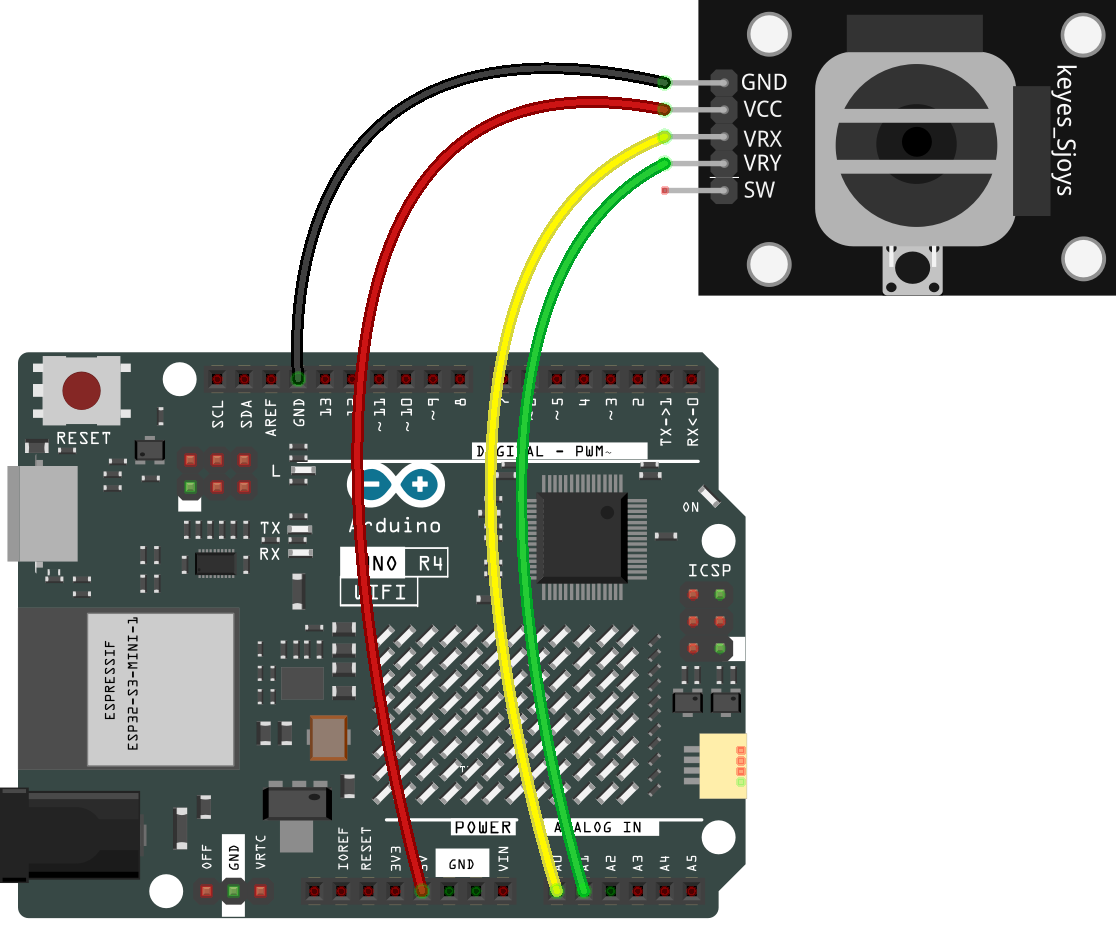
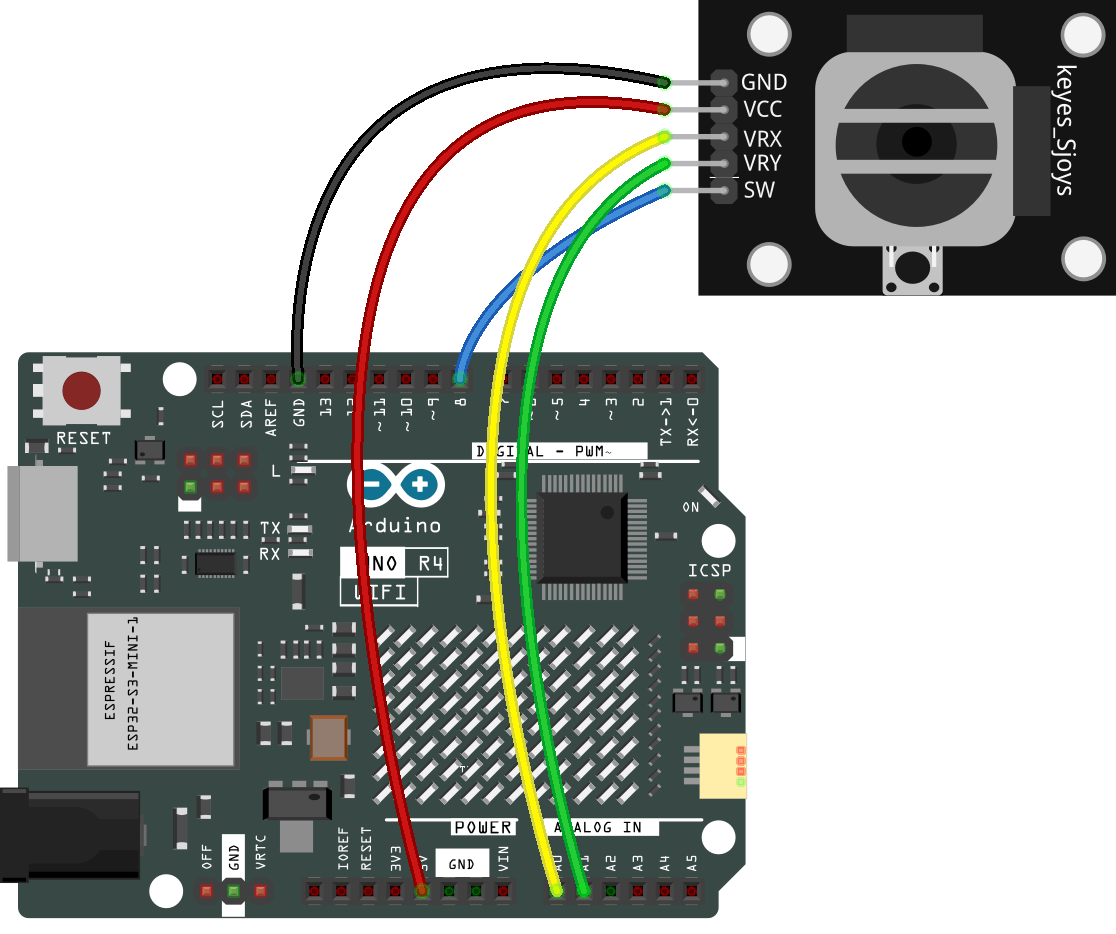
Update joystick tutorial

diff --git a/docs/source/basic_projects/20_basic_joystick.rst b/docs/source/basic_projects/20_basic_joystick.rst
@@ -50,7 +50,7 @@ Code
 
     <iframe src=https://create.arduino.cc/editor/sunfounder01/ac0f9910-e53e-43a3-a5ae-ec4d3a3f4aa1/preview?embed style="height:510px;width:100%;margin:10px 0" frameborder=0></iframe>
 
-Now, push the rocker and the coordinates of X and Y axes displayed on Serial Monitor will change accordingly.
+Now, when you push the rocker, the coordinates of the X and Y axes displayed on the Serial Monitor will change accordingly. Pressing the button will also display the coordinate Z=0.
 
 
 Code Analysis
